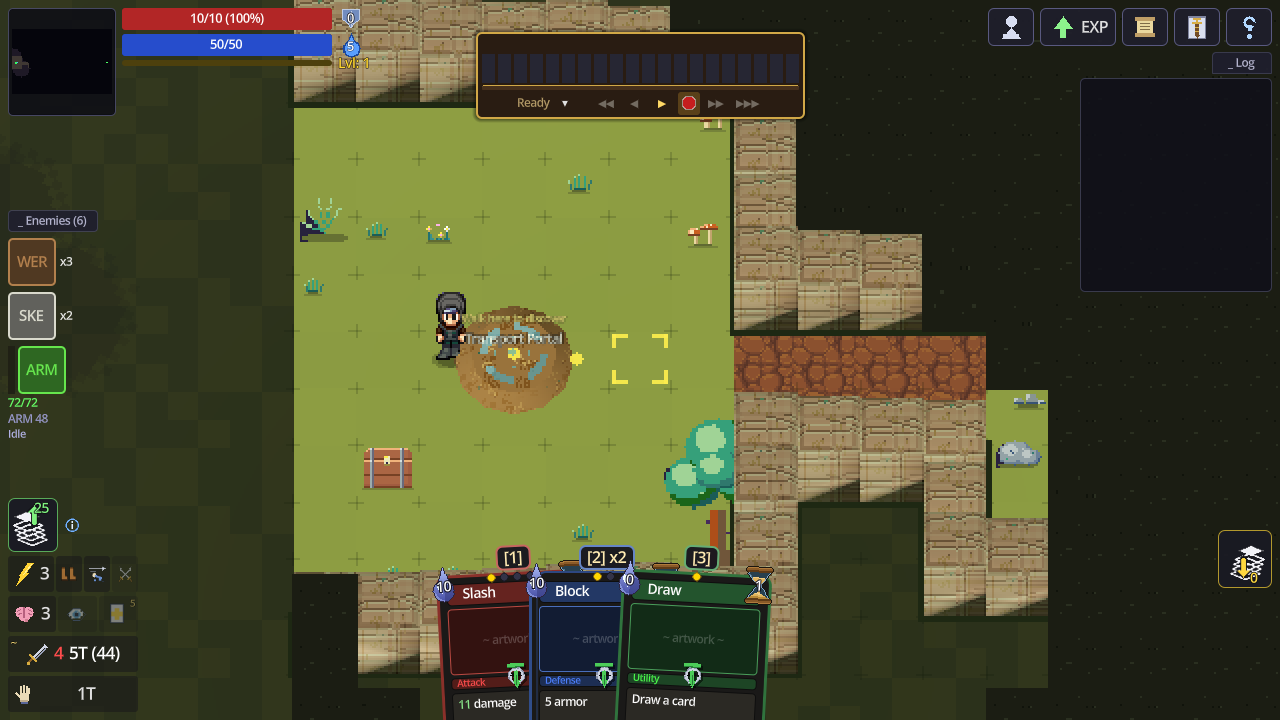
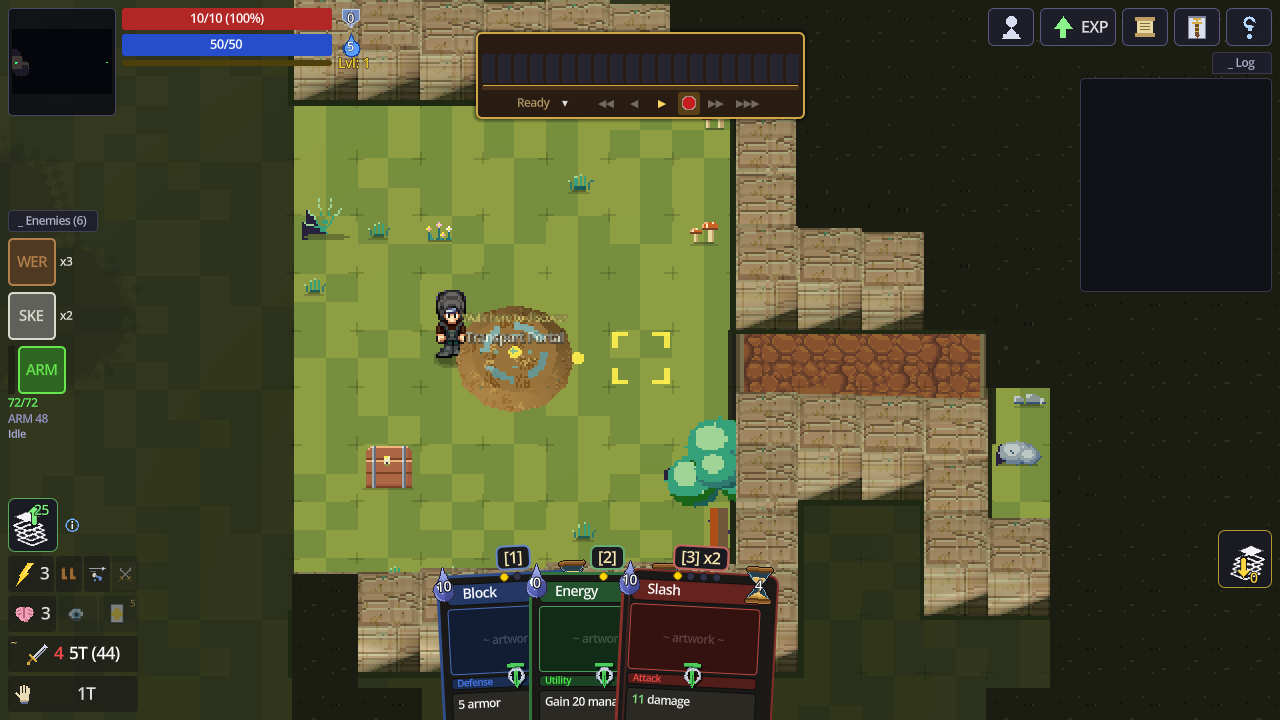
Fix merge: camera reads CameraView, autotile ground uses the pack sheets
The merge of main dropped the top-down prototype's TOPDOWN_PITCH constant
while keeping its use, so main.gd failed to parse. The prototype and the
fixed-view work chose the same -65 degree pitch, so _update_camera now
takes the angle from CameraView and keeps the prototype's whole-pixel
focus snapping.

The prototype's autotiled ground layer replaces its runtime placeholder
atlas with one assembled from the location's ground sheets: the Craftpix
fills (field, forest, cave, cursed land, barrow stone) where a pack
matches, the generated palette sheets elsewhere. Atlas tiles are 32px to
match the game's texel density, open ground draws from 16 variants per
terrain, and the edge-mask tiles keep their palette-painted transition
bands. README screenshots refreshed.

Claude-Session: https://claude.ai/code/session_015tgbwaAhcMDCx3nBpGq8fo

diff --git a/docs/ASSET_PACKS.md b/docs/ASSET_PACKS.md
@@ -103,12 +103,14 @@ billboard.
 ## Integration notes
 
 - **Terrain fills.** `tools/extract_craftpix_tiles.py` cuts each tileset's
-  interior 16-px fill tiles and composes them into the 4×4 × 32-px variant
-  sheets the terrain MultiMesh samples (`assets/textures/craftpix/`). Only
-  fills are used so far; the autotile edge pieces, coasts and prop atlases
-  wait on a per-tile UV renderer (the current triplanar material cannot
-  pick a cell per tile). Grass fills are two flat tiles per pack — the
-  packs put grass detail in `Details.png` overlays, which is the next step.
+  interior 16-px fill tiles and composes them into 4×4 × 32-px variant
+  sheets (`assets/textures/craftpix/`). The autotiled ground
+  (`DungeonManager._build_autotile_ground`) assembles its runtime atlas from
+  those sheets — 16 plain variants per terrain for open ground, plus 16
+  edge-mask tiles whose transition bands are still painted from the
+  palette. Cutting the packs' own edge pieces, coasts and prop atlases into
+  those mask columns is the next step, as is scattering the `Details.png`
+  grass overlays (the pack grass fills are two flat tiles).
 - **Enemy rigs.** `SpriteEnemyFigure` plays the Craftpix sheets with real
   frames (idle / walk / run / attack / hurt / death). The direction row map
   is `SpriteEnemyFigure.CP_ROWS`. The `Without_shadow` sheets are used with
